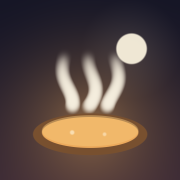
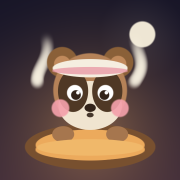
games(yujiba): add cute mascots ぽん(tanuki) & こん(fox), rounder UI
- ぽん soaks in the tub as the tap character (towel, blush, blink, bounce,
  splash droplets, occasional speech bubble); こん peeks from the side
- rounded gothic font + sakura accents for a softer, cuter feel
- app icon redrawn as ぽん's face in the onsen

diff --git a/docs/games/yujiba/index.html b/docs/games/yujiba/index.html
@@ -16,18 +16,19 @@
     --bg:#14141d; --panel:#20202d; --panel2:#262031; --line:rgba(255,247,235,.09);
     --ink:#f3ede1; --dim:#a79d8c; --faint:#6f6a60;
     --amber:#e9a94e; --amber2:#f4c87a; --persimmon:#e0613f; --gold:#f1c764;
-    --hinoki:#caa06a; --good:#94c184;
-    --serif:"Hiragino Mincho ProN","Hiragino Mincho Pro","YuMincho","Yu Mincho",serif;
-    --sans:"Hiragino Sans","Hiragino Kaku Gothic ProN","Yu Gothic UI",system-ui,sans-serif;
+    --hinoki:#caa06a; --good:#94c184; --blush:#f4a7b2; --sakura:#f5b8c4;
+    --serif:"Hiragino Maru Gothic ProN","Hiragino Maru Gothic Pro","YuRounded","Hiragino Sans",system-ui,sans-serif;
+    --sans:"Hiragino Maru Gothic ProN","Hiragino Sans","Hiragino Kaku Gothic ProN",system-ui,sans-serif;
   }
   *{box-sizing:border-box;-webkit-tap-highlight-color:transparent}
   html,body{margin:0;height:100%;overflow:hidden}
   body{
     font-family:var(--sans); color:var(--ink);
     background:
-      radial-gradient(120% 75% at 50% 118%, rgba(233,169,78,.22), transparent 58%),
-      radial-gradient(85% 55% at 50% -8%, rgba(74,46,86,.55), transparent 60%),
-      linear-gradient(#14141d 0%, #1a1524 60%, #1f1722 100%);
+      radial-gradient(120% 75% at 50% 118%, rgba(233,169,78,.24), transparent 58%),
+      radial-gradient(90% 50% at 18% 8%, rgba(245,184,196,.16), transparent 55%),
+      radial-gradient(85% 55% at 50% -8%, rgba(86,52,96,.55), transparent 60%),
+      linear-gradient(#16131f 0%, #1c1626 58%, #221a26 100%);
     background-attachment:fixed;
     -webkit-user-select:none; user-select:none; -webkit-touch-callout:none;
     touch-action:manipulation;
@@ -59,24 +60,53 @@
   #steam span:nth-child(3){left:104px;animation-delay:2.5s;animation-duration:5s}
   @keyframes rise{0%{transform:translateY(10px) scale(.7);opacity:0}
     25%{opacity:.85}70%{opacity:.5}100%{transform:translateY(-104px) scale(1.5);opacity:0}}
-  #tub{appearance:none;-webkit-appearance:none;border:0;background:transparent;padding:0;margin:0 0 8px;
-    position:relative;width:76%;max-width:330px;height:140px;cursor:pointer;touch-action:manipulation}
-  .tub-body{position:absolute;left:0;right:0;bottom:0;height:118px;border-radius:50%/46%;
-    background:
-      radial-gradient(120% 150% at 50% -10%, #8a5d39, #6b4528 55%, #4f3220 100%);
+  #tub{appearance:none;-webkit-appearance:none;border:0;background:transparent;padding:0;margin:0 0 6px;
+    position:relative;width:80%;max-width:344px;height:152px;cursor:pointer;touch-action:manipulation}
+  .tub-body{position:absolute;left:0;right:0;bottom:0;height:104px;border-radius:50%/46%;
+    background:radial-gradient(120% 150% at 50% -10%, #8a5d39, #6b4528 55%, #4f3220 100%);
     box-shadow:0 16px 40px rgba(0,0,0,.5), inset 0 -8px 18px rgba(0,0,0,.4), inset 0 6px 10px rgba(255,210,150,.18)}
-  .water{position:absolute;left:9%;right:9%;top:14px;bottom:20px;border-radius:50%/52%;overflow:hidden;
+  .water{position:absolute;left:8%;right:8%;bottom:14px;height:82px;border-radius:50%/52%;overflow:hidden;z-index:1;
     background:radial-gradient(110% 130% at 50% 22%, #f6cd85 0%, #e9a849 48%, #cf8636 100%);
     box-shadow:inset 0 8px 16px rgba(255,236,196,.5), inset 0 -10px 18px rgba(120,70,25,.55)}
   .water::before{content:"";position:absolute;inset:-40% -10%;
     background:linear-gradient(115deg,transparent 40%,rgba(255,248,230,.5) 50%,transparent 60%);
     animation:shimmer 5s linear infinite}
   @keyframes shimmer{0%{transform:translateX(-30%)}100%{transform:translateX(30%)}}
-  #tub:active .water{transform:scale(.985)}
-  .hint{position:absolute;left:0;right:0;top:46px;text-align:center;font-family:var(--serif);
-    font-size:15px;color:rgba(80,48,28,.78);letter-spacing:.12em;pointer-events:none;
-    animation:bob 1.8s ease-in-out infinite}
-  @keyframes bob{0%,100%{transform:translateY(0)}50%{transform:translateY(-4px)}}
+  .pon{position:absolute;left:50%;bottom:24px;transform:translateX(-50%);width:144px;height:auto;z-index:2;
+    pointer-events:none;filter:drop-shadow(0 6px 7px rgba(0,0,0,.26))}
+  .pon-inner{transform-box:fill-box;transform-origin:50% 100%;animation:ponbob 3.6s ease-in-out infinite}
+  @keyframes ponbob{0%,100%{transform:translateY(0) rotate(0deg)}50%{transform:translateY(-3px) rotate(-1.4deg)}}
+  .eyes{transform-box:fill-box;transform-origin:center;animation:blink 4.4s infinite}
+  @keyframes blink{0%,93%,100%{transform:scaleY(1)}96.5%{transform:scaleY(.1)}}
+  .cheek{transition:opacity .2s}
+  .water-front{position:absolute;left:8%;right:8%;bottom:14px;height:38px;z-index:3;border-radius:50%/72%;overflow:hidden;
+    background:radial-gradient(120% 220% at 50% -50%, #f6cd85, #e3a043 72%);
+    box-shadow:inset 0 5px 9px rgba(255,244,214,.6), inset 0 -8px 14px rgba(120,70,25,.5)}
+  .water-front::before{content:"";position:absolute;inset:-50% -10%;
+    background:linear-gradient(115deg,transparent 42%,rgba(255,248,230,.5) 50%,transparent 58%);
+    animation:shimmer 5s linear infinite}
+  #tub.tap .pon-inner{animation:ponhop .36s ease}
+  @keyframes ponhop{0%{transform:translateY(0) scale(1,1)}28%{transform:translateY(-13px) scale(1.06,.95)}
+    58%{transform:translateY(0) scale(.97,1.04)}100%{transform:translateY(0) scale(1,1)}}
+  #tub.tap .cheek{opacity:1}
+  .bubble{position:absolute;left:50%;top:-4px;transform:translateX(-50%);transform-origin:bottom center;
+    background:#fbf4e6;color:#7a4f2a;font-family:var(--serif);font-weight:700;font-size:14px;
+    padding:5px 14px;border-radius:16px;white-space:nowrap;opacity:0;pointer-events:none;z-index:6;
+    box-shadow:0 4px 12px rgba(0,0,0,.3)}
+  .bubble::after{content:"";position:absolute;left:50%;bottom:-6px;transform:translateX(-50%);
+    border:7px solid transparent;border-top-color:#fbf4e6;border-bottom:0}
+  .bubble.show{animation:bub 1.7s ease forwards}
+  @keyframes bub{0%{opacity:0;transform:translateX(-50%) scale(.5)}14%{opacity:1;transform:translateX(-50%) scale(1)}
+    82%{opacity:1;transform:translateX(-50%) scale(1)}100%{opacity:0;transform:translateX(-50%) scale(.9)}}
+  .hint{position:absolute;left:50%;transform:translateX(-50%);bottom:0;z-index:5;
+    background:rgba(248,240,225,.93);color:#7a4f2a;padding:3px 13px;border-radius:20px;
+    font-family:var(--serif);font-size:12px;font-weight:700;letter-spacing:.04em;pointer-events:none;
+    box-shadow:0 3px 8px rgba(0,0,0,.28);animation:bob 1.9s ease-in-out infinite}
+  @keyframes bob{0%,100%{transform:translateX(-50%) translateY(0)}50%{transform:translateX(-50%) translateY(-3px)}}
+  .kon-wrap{position:absolute;left:16px;bottom:18px;width:78px;z-index:4;pointer-events:none;
+    animation:konbob 4.2s ease-in-out infinite}
+  .kon{width:100%;height:auto;filter:drop-shadow(0 4px 6px rgba(0,0,0,.3))}
+  @keyframes konbob{0%,100%{transform:translateY(0) rotate(-3deg)}50%{transform:translateY(-4px) rotate(2deg)}}
   .pop{position:absolute;z-index:5;font-family:var(--serif);font-weight:600;font-size:20px;color:var(--amber2);
     text-shadow:0 1px 6px rgba(0,0,0,.5);pointer-events:none;animation:pop .9s ease-out forwards;font-variant-numeric:tabular-nums}
   @keyframes pop{0%{transform:translate(-50%,0) scale(.8);opacity:0}
@@ -85,6 +115,9 @@
   .ripple{position:absolute;z-index:4;border:2px solid rgba(255,242,214,.7);border-radius:50%;
     transform:translate(-50%,-50%);pointer-events:none;animation:rip .6s ease-out forwards}
   @keyframes rip{0%{width:14px;height:10px;opacity:.8}100%{width:150px;height:96px;opacity:0}}
+  .drop{position:absolute;z-index:5;width:10px;height:10px;pointer-events:none;
+    border-radius:50% 50% 50% 0;background:radial-gradient(circle at 34% 30%,#fff8ea,#f1ba66);
+    transform:translate(-50%,-50%) rotate(45deg)}
 
   /* ---- Panel / tabs content ---- */
   #panel{flex:1 1 auto;overflow-y:auto;-webkit-overflow-scrolling:touch;overscroll-behavior:contain;
@@ -188,9 +221,62 @@
 
   <section id="tubwrap">
     <div id="steam"><span></span><span></span><span></span></div>
-    <button id="tub" aria-label="湯をくむ">
-      <div class="tub-body"><div class="water"></div></div>
-      <div class="hint" id="hint">ここを トン と</div>
+
+    <div class="kon-wrap" id="konWrap" aria-hidden="true">
+      <svg class="kon" viewBox="0 0 120 130">
+        <path class="kon-tail" d="M92 70 Q128 60 118 100 Q112 120 92 108 Q86 88 92 70Z" fill="#e8894a"/>
+        <path d="M104 96 Q122 90 116 110 Q112 118 100 110Z" fill="#f3ead9"/>
+        <path d="M30 44 L18 8 L50 34 Z" fill="#e8894a"/>
+        <path d="M90 44 L102 8 L70 34 Z" fill="#e8894a"/>
+        <path d="M30 40 L23 17 L43 33 Z" fill="#3a2a22"/>
+        <path d="M90 40 L97 17 L77 33 Z" fill="#3a2a22"/>
+        <path d="M60 32 Q96 42 86 78 Q72 104 60 104 Q48 104 34 78 Q24 42 60 32Z" fill="#e8894a"/>
+        <path d="M60 60 Q80 64 74 86 Q66 100 60 100 Q54 100 46 86 Q40 64 60 60Z" fill="#f5ecdd"/>
+        <ellipse class="cheek" cx="40" cy="76" rx="7" ry="5" fill="#f3a0aa"/>
+        <ellipse class="cheek" cx="80" cy="76" rx="7" ry="5" fill="#f3a0aa"/>
+        <path d="M44 66 Q50 60 56 66" stroke="#3a2a22" stroke-width="3" fill="none" stroke-linecap="round"/>
+        <path d="M64 66 Q70 60 76 66" stroke="#3a2a22" stroke-width="3" fill="none" stroke-linecap="round"/>
+        <ellipse cx="60" cy="82" rx="4" ry="3" fill="#3a2a22"/>
+      </svg>
+    </div>
+
+    <button id="tub" aria-label="ぽんと湯につかる">
+      <div class="tub-body"></div>
+      <div class="water"></div>
+      <svg class="pon" id="pon" viewBox="0 0 200 176">
+        <g class="pon-inner">
+          <ellipse cx="62" cy="46" rx="21" ry="23" fill="#8a6038"/>
+          <ellipse cx="138" cy="46" rx="21" ry="23" fill="#8a6038"/>
+          <ellipse cx="62" cy="49" rx="11" ry="12" fill="#c08a5c"/>
+          <ellipse cx="138" cy="49" rx="11" ry="12" fill="#c08a5c"/>
+          <path d="M38 156 Q38 112 100 112 Q162 112 162 156 Z" fill="#b58258"/>
+          <ellipse cx="100" cy="150" rx="50" ry="30" fill="#f0e4d0"/>
+          <circle cx="100" cy="86" r="55" fill="#b58258"/>
+          <ellipse cx="100" cy="104" rx="41" ry="33" fill="#f0e4d0"/>
+          <ellipse cx="78" cy="84" rx="17" ry="22" fill="#4f3825" transform="rotate(-12 78 84)"/>
+          <ellipse cx="122" cy="84" rx="17" ry="22" fill="#4f3825" transform="rotate(12 122 84)"/>
+          <ellipse class="cheek" cx="62" cy="103" rx="12" ry="8" fill="#f3a0aa"/>
+          <ellipse class="cheek" cx="138" cy="103" rx="12" ry="8" fill="#f3a0aa"/>
+          <g class="eyes">
+            <ellipse cx="80" cy="86" rx="8.5" ry="10" fill="#fff"/>
+            <ellipse cx="120" cy="86" rx="8.5" ry="10" fill="#fff"/>
+            <circle cx="81" cy="88" r="5.2" fill="#33241a"/>
+            <circle cx="119" cy="88" r="5.2" fill="#33241a"/>
+            <circle cx="83.4" cy="85.6" r="1.8" fill="#fff"/>
+            <circle cx="121.4" cy="85.6" r="1.8" fill="#fff"/>
+          </g>
+          <ellipse cx="100" cy="102" rx="6.5" ry="5" fill="#3a2a1f"/>
+          <path d="M100 106 Q100 114 92 115 M100 106 Q100 114 108 115" stroke="#3a2a1f" stroke-width="2.6" fill="none" stroke-linecap="round"/>
+          <ellipse cx="66" cy="150" rx="15" ry="11" fill="#a6764e"/>
+          <ellipse cx="134" cy="150" rx="15" ry="11" fill="#a6764e"/>
+          <rect x="48" y="40" width="104" height="24" rx="12" fill="#f5eee0"/>
+          <rect x="48" y="46" width="104" height="5" fill="#e89aa6" opacity=".75"/>
+          <rect x="48" y="40" width="104" height="4" rx="2" fill="#e89aa6" opacity=".45"/>
+        </g>
+      </svg>
+      <div class="water-front"></div>
+      <div class="bubble" id="bubble"></div>
+      <div class="hint" id="hint">ぽんを ぽんっ</div>
     </button>
   </section>
 
@@ -368,11 +454,19 @@ function buyQtyAndCost(f){
 }
 
 // ---------- actions ----------
+const PON_LINES = ["ぽんっ♪","ええ湯〜","ふぁ〜","あったか","ぽかぽか","きもちぃ","ごくらく〜","ふぅ…","のぼせる〜"];
+function showBubble(text){
+  const b=$("bubble"); b.textContent=text; b.classList.remove("show");
+  void b.offsetWidth; b.classList.add("show");
+}
 function tap(clientX, clientY){
   state.yu += tapGain; state.lifetime += tapGain; state.run += tapGain; state.taps++;
   if(state.taps <= 6) $("hint").classList.add("hidden");
   blip();
-  // floating +N and ripple
+  // ぽん が ぴょこん と跳ねる
+  const tubEl=$("tub"); tubEl.classList.remove("tap"); void tubEl.offsetWidth; tubEl.classList.add("tap");
+  clearTimeout(tubEl._t); tubEl._t=setTimeout(()=>tubEl.classList.remove("tap"), 380);
+  // floating +N, ripple, splash
   const wrap = $("tubwrap"); const rct = wrap.getBoundingClientRect();
   const x = (clientX!=null? clientX - rct.left : rct.width/2);
   const y = (clientY!=null? clientY - rct.top : rct.height*0.5);
@@ -380,7 +474,19 @@ function tap(clientX, clientY){
   pop.style.left = x+"px"; pop.style.top = y+"px"; wrap.appendChild(pop);
   const rip = document.createElement("div"); rip.className="ripple";
   rip.style.left = x+"px"; rip.style.top = y+"px"; wrap.appendChild(rip);
+  const n=3;
+  for(let i=0;i<n;i++){
+    const d=document.createElement("div"); d.className="drop";
+    d.style.left=x+"px"; d.style.top=y+"px"; wrap.appendChild(d);
+    const ang=-Math.PI/2 + (i-(n-1)/2)*0.62, dist=28+i*5;
+    const dx=Math.cos(ang)*dist, dy=Math.sin(ang)*dist;
+    if(d.animate) d.animate([{transform:"translate(-50%,-50%) rotate(45deg)",opacity:1},
+      {transform:"translate(calc(-50% + "+dx+"px), calc(-50% + "+dy+"px)) rotate(45deg) scale(.4)",opacity:0}],
+      {duration:560,easing:"cubic-bezier(.3,.7,.5,1)"});
+    setTimeout(()=>d.remove(),580);
+  }
   setTimeout(()=>{pop.remove();}, 920); setTimeout(()=>{rip.remove();}, 620);
+  if(state.taps>3 && state.taps % 11 === 0) showBubble(PON_LINES[(state.taps/11) % PON_LINES.length | 0]);
   flushHUD();
   queueSave();
 }
